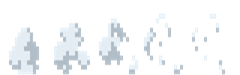
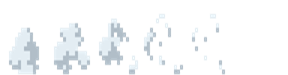
대쉬 및 이동중 Smoke 이펙트 설정

diff --git a/Contents/Player_Smoke_Effect.cpp b/Contents/Player_Smoke_Effect.cpp
@@ -1,0 +1,57 @@
+#include "PreCompile.h"
+#include "Player_Attack_Effect.h"
+#include <EngineCore/Renderer.h>
+#include <EngineCore/SpriteRenderer.h>
+#include <EngineCore/DefaultSceneComponent.h>
+#include "ContentsHelper.h"
+#include "Player_Smoke_Effect.h"
+
+
+APlayer_Smoke_Effect::APlayer_Smoke_Effect()
+{
+	Renderer = CreateDefaultSubObject<USpriteRenderer>("Renderers");
+	SetRoot(Renderer);
+}
+
+APlayer_Smoke_Effect::~APlayer_Smoke_Effect()
+{
+}
+
+void APlayer_Smoke_Effect::BeginPlay()
+{
+	Super::BeginPlay();
+	Renderer->SetPivot(EPivot::BOT);
+	Renderer->CreateAnimation("Run_Smoke", "Run_Smoke.png", 0.1f, false);
+	Renderer->CreateAnimation("Dash_Smoke", "Dash_Smoke.png", 0.1f, false);
+	Renderer->SetAutoSize(1.f, true);
+	Renderer->SetOrder(9);
+	Renderer->ChangeAnimation("Run_Smoke");
+}
+
+void APlayer_Smoke_Effect::Tick(float _DeltaTime)
+{
+	Super::Tick(_DeltaTime);
+	if (Smoke_Switch == true)
+	{
+		//if (Dash_SmokeOn == true)
+		//{
+		//	Renderer->ChangeAnimation("Dash_Smoke");
+		//	Dash_SmokeOn = false;
+		//}
+		//if (Run_SmokeON == true)
+		//{
+		//	Renderer->ChangeAnimation("Run_Smoke");
+		//	Run_SmokeON = false;
+		//}	
+	}
+	if (Dash_SmokeOn == true)
+	{
+		Renderer->ChangeAnimation("Dash_Smoke");
+		Dash_SmokeOn = false;
+	}
+	if (Run_SmokeON == true)
+	{
+		Renderer->ChangeAnimation("Run_Smoke");
+		Run_SmokeON = false;
+	}
+}

diff --git a/Contents/Player_Smoke_Effect.h b/Contents/Player_Smoke_Effect.h
@@ -1,0 +1,33 @@
+#pragma once
+#include <EngineCore/Actor.h>
+
+class USpriteRenderer;
+class APlayer_Smoke_Effect : public AActor
+{
+	GENERATED_BODY(AActor)
+public:
+	APlayer_Smoke_Effect();
+	~APlayer_Smoke_Effect();
+
+	APlayer_Smoke_Effect(const APlayer_Smoke_Effect& _Other) = delete;
+	APlayer_Smoke_Effect(APlayer_Smoke_Effect& _Other) noexcept = delete;
+	APlayer_Smoke_Effect& operator =(const 	APlayer_Smoke_Effect& _Other) = delete;
+	APlayer_Smoke_Effect& operator =(APlayer_Smoke_Effect& _Other)noexcept = delete;
+
+	bool CanPlayEffect() { return Renderer->IsCurAnimationEnd(); }
+	void SmokeOn() { Smoke_Switch = true; }
+	void Dash_Smoke_On() { Dash_SmokeOn = true; }
+	void Run_Smoke_On() { Run_SmokeON = true; }
+	void Right_Dir() { Renderer->SetDir(EEngineDir::Right); }
+	void Left_Dir() { Renderer->SetDir(EEngineDir::Left); }
+
+protected:
+	void BeginPlay() override;
+	void Tick(float _DeltaTime) override;
+private:
+	USpriteRenderer* Renderer = nullptr;
+	bool Smoke_Switch= false;
+	bool Dash_SmokeOn = false;
+	bool Run_SmokeON = false;
+	float4 Color;
+};

diff --git a/Contents/Player.cpp b/Contents/Player.cpp
@@ -4,6 +4,9 @@
 #include "ContentsHelper.h"
 #include <cmath>
 #include <EngineCore/DefaultSceneComponent.h>
+#include "Player_Hand.h"
+#include "Target.h"
+#include "Player_Smoke_Effect.h"
 
 APlayer::APlayer()
 {
@@ -40,6 +43,10 @@ void APlayer::BeginPlay()
 	Right_Hand = GetWorld()->SpawnActor<APlayer_Hand>("R_Hand");
 	Right_Hand->SetActorLocation({ 640.0f, -360.0f, 200.0f });
 	Right_Hand->SetTarget(Cursor);
+
+	Smoke_Effect = GetWorld()->SpawnActor<APlayer_Smoke_Effect>("Smoke");
+	Smoke_Effect->SetActorLocation({0.0f, 0.0f, 200.0f });
+
 	//Left_Hand = GetWorld()->SpawnActor<APlayer_Hand>("L_Hand");
 	//Left_Hand->SetActorLocation({ 640.0f, -360.0f, 200.0f });	
 

diff --git a/Contents/GameCore.cpp b/Contents/GameCore.cpp
@@ -48,7 +48,7 @@ void UGameCore::Initialize()
 		UEngineSprite::CreateCutting("Demon_Sword.png", 9, 1);
 		UEngineSprite::CreateCutting("Fire_Sword.png", 13, 1);
 		UEngineSprite::CreateCutting("Dash_Smoke.png", 5, 1);
-		UEngineSprite::CreateCutting("Run_Smoke.png", 5, 1);
+		UEngineSprite::CreateCutting("Run_Smoke.png", 6, 1);
 		UEngineSprite::CreateCutting("CuttingTest.png", 4, 3);
 	}
 	//UEngineDirectory Dir;
